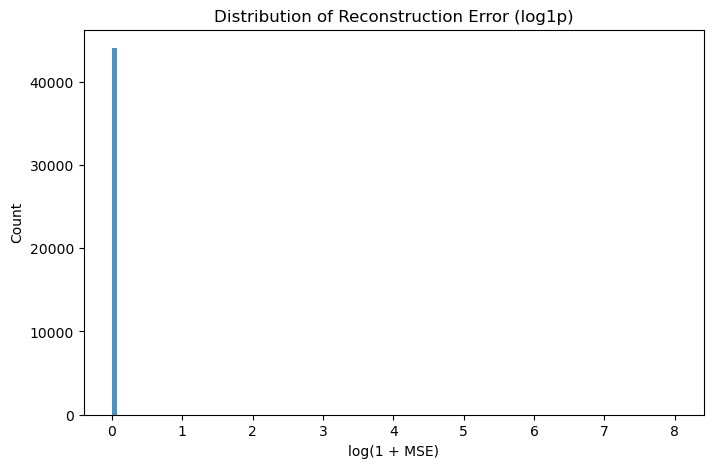
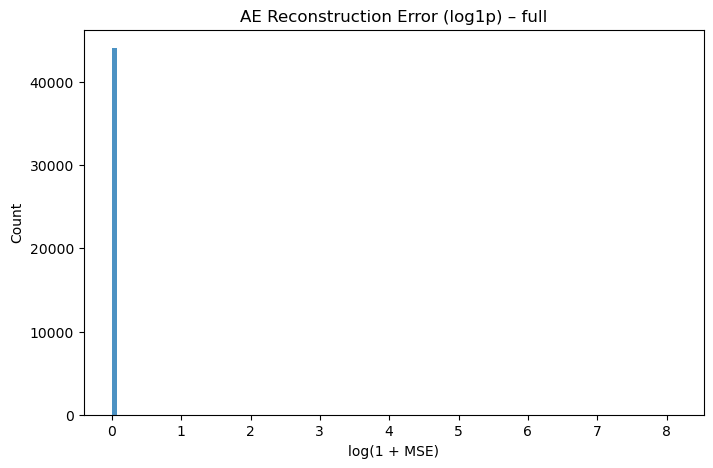
added steps to unsupervised code

diff --git a/blockchain_Unsupervised.py b/blockchain_Unsupervised.py
@@ -1,8 +1,3 @@
-# =====================================================
-# Unsupervised Fraud / Outlier Detection via Autoencoder
-# + Outlier thresholding, CSV export, and extra diagnostics
-# =====================================================
-
 import os
 import numpy as np
 import pandas as pd
@@ -11,22 +6,20 @@ from sklearn.model_selection import train_test_split
 import matplotlib.pyplot as plt
 import tensorflow as tf
 from tensorflow import keras
+from sklearn.preprocessing import StandardScaler
+from sklearn.model_selection import train_test_split
+from sklearn.ensemble import IsolationForest
+from sklearn.cluster import KMeans
 from tensorflow.keras import layers
 
 os.environ["CUDA_VISIBLE_DEVICES"] = "-1"
 os.environ["TF_CPP_MIN_LOG_LEVEL"] = "3"
 
-# -----------------------
-# 1. Load dataset
-# -----------------------
-print("[1/8] Loading cleaned transfers parquet...")
+print("[1/10] Loading cleaned transfers parquet...")
 df = pd.read_parquet("transfers_verified_small.parquet")
 print("Shape:", df.shape)
 
-# -----------------------
-# 2. Feature engineering (address-level)
-# -----------------------
-print("[2/8] Building address-level features...")
+print("[2/10] Building address-level features...")
 
 def make_address_features(df):
     addr_in = df.groupby("to")["value"].agg(["count", "sum", "mean"]).rename(
@@ -44,29 +37,22 @@ def make_address_features(df):
 addr_features = make_address_features(df)
 print("Address feature shape:", addr_features.shape)
 
-# -----------------------
-# 3. Train / val / test split
-# -----------------------
-print("[3/8] Splitting train/val/test...")
+
+print("[3/10] Splitting train/val/test...")
 X_train, X_temp = train_test_split(addr_features, test_size=0.3, random_state=42)
 X_val, X_test = train_test_split(X_temp, test_size=0.5, random_state=42)
 
-# -----------------------
-# 4. Scaling
-# -----------------------
-print("[4/8] Scaling features...")
+print("[4/10] Scaling features...")
 scaler = StandardScaler()
 X_train_scaled = scaler.fit_transform(X_train)
 X_val_scaled   = scaler.transform(X_val)
 X_test_scaled  = scaler.transform(X_test)
 
-# -----------------------
-# 5. Build Autoencoder
-# -----------------------
-print("[5/8] Building Autoencoder model...")
+
+print("[5/10] Building Autoencoder model...")
 
 input_dim = X_train_scaled.shape[1]
-encoding_dim = input_dim // 2  # simple compression factor
+encoding_dim = input_dim // 2  
 
 def build_autoencoder(input_dim, encoding_dim):
     input_layer = keras.Input(shape=(input_dim,))
@@ -81,10 +67,7 @@ def build_autoencoder(input_dim, encoding_dim):
 autoencoder = build_autoencoder(input_dim, encoding_dim)
 autoencoder.summary()
 
-# -----------------------
-# 6. Train model
-# -----------------------
-print("[6/8] Training Autoencoder...")
+print("[6/10] Training Autoencoder...")
 
 es = keras.callbacks.EarlyStopping(
     monitor="val_loss", patience=5, restore_best_weights=True
@@ -101,65 +84,145 @@ history = autoencoder.fit(
     verbose=1,
 )
 
-# -----------------------
-# 7. Reconstruction error + diagnostics
-# -----------------------
-print("[7/8] Computing reconstruction error and diagnostics...")
+print("[7/10] Computing reconstruction error and diagnostics...")
 
 X_test_pred = autoencoder.predict(X_test_scaled)
 mse = np.mean(np.square(X_test_scaled - X_test_pred), axis=1)
 
-# Basic distribution diagnostics
 percentiles = np.percentile(mse, [50, 90, 95, 99, 99.5, 99.9, 99.99])
 print("Reconstruction error percentiles (50,90,95,99,99.5,99.9,99.99):")
 print(percentiles)
 
-# Address-level score table
-addr_scores = pd.DataFrame(
+addr_scores_ae = pd.DataFrame(
     {
         "address": X_test.index,
-        "reconstruction_error": mse,
+        "ae_recon_error": mse,
     }
-).sort_values("reconstruction_error", ascending=False)
+).sort_values("ae_recon_error", ascending=False)
 
-print("\nTop 10 by reconstruction error:")
-print(addr_scores.head(10))
+print("\nTop 10 by AE reconstruction error:")
+print(addr_scores_ae.head(10))
 
-# Full histogram
 plt.figure(figsize=(8, 5))
 plt.hist(np.log1p(mse), bins=100, alpha=0.8)
-plt.title("Distribution of Reconstruction Error (log1p)")
+plt.title("AE Reconstruction Error (log1p) – full")
 plt.xlabel("log(1 + MSE)")
 plt.ylabel("Count")
 plt.savefig("ae_recon_error_hist_full.png", bbox_inches="tight")
 plt.close()
 
-# Zoomed histogram (optional, for slide clarity)
 plt.figure(figsize=(8, 5))
 plt.hist(np.log1p(mse), bins=100, range=(0, 1), alpha=0.8)
-plt.title("Distribution of Reconstruction Error (log1p) – zoomed")
+plt.title("AE Reconstruction Error (log1p) – zoomed")
 plt.xlabel("log(1 + MSE)")
 plt.ylabel("Count")
 plt.savefig("ae_recon_error_hist_zoom.png", bbox_inches="tight")
 plt.close()
 
-# -----------------------
-# 8. Thresholding + CSV export
-# -----------------------
-print("[8/8] Thresholding and saving scores...")
+print("[8/10] Thresholding AE scores and saving...")
 
-# Example: mark top 0.5% as outliers
 PERC = 99.5
-threshold = np.percentile(mse, PERC)
-print(f"Using threshold at {PERC}th percentile: {threshold:.4f}")
+ae_threshold = np.percentile(mse, PERC)
+print(f"Using AE threshold at {PERC}th percentile: {ae_threshold:.4f}")
 
-addr_scores["is_outlier"] = addr_scores["reconstruction_error"] >= threshold
-print("\nOutlier flag counts:")
-print(addr_scores["is_outlier"].value_counts())
+addr_scores_ae["ae_is_outlier"] = addr_scores_ae["ae_recon_error"] >= ae_threshold
+print("\nAE outlier flag counts:")
+print(addr_scores_ae["ae_is_outlier"].value_counts())
 
-# Save for downstream analysis (e.g., joining back to transfers)
-addr_scores.to_csv("address_ae_scores.csv", index=False)
-print("Saved address scores to address_ae_scores.csv")
+addr_scores_ae.to_csv("address_ae_scores.csv", index=False)
+print("Saved AE scores to address_ae_scores.csv")
 
-print("\nTop 10 potential outliers (highest reconstruction error):")
-print(addr_scores.head(10))
+print("\nTop 10 AE potential outliers (highest reconstruction error):")
+print(addr_scores_ae.head(10))
+
+print("\n[9/10] Fitting Isolation Forest...")
+
+iso_forest = IsolationForest(
+    n_estimators=200,
+    contamination=0.005,   
+    random_state=42,
+    n_jobs=-1,
+)
+iso_forest.fit(X_train_scaled)
+
+
+if_scores = -iso_forest.decision_function(X_test_scaled)  
+if_labels = iso_forest.predict(X_test_scaled)  
+
+addr_scores_if = pd.DataFrame(
+    {
+        "address": X_test.index,
+        "if_anomaly_score": if_scores,
+        "if_is_outlier": (if_labels == -1),
+    }
+).set_index("address")
+
+print("Isolation Forest outlier counts:")
+print(addr_scores_if["if_is_outlier"].value_counts())
+
+print("\nTop 10 by Isolation Forest anomaly score:")
+print(
+    addr_scores_if.sort_values("if_anomaly_score", ascending=False)
+    .head(10)
+)
+
+print("\n[10/10] Fitting KMeans and computing distance-based anomaly scores...")
+
+N_CLUSTERS = 8
+kmeans = KMeans(n_clusters=N_CLUSTERS, random_state=42, n_init=10)
+kmeans.fit(X_train_scaled)
+
+# assign clusters
+test_clusters = kmeans.predict(X_test_scaled)
+centroids = kmeans.cluster_centers_
+
+dists = np.linalg.norm(X_test_scaled - centroids[test_clusters], axis=1)
+
+km_threshold = np.percentile(dists, PERC)  
+km_is_outlier = dists >= km_threshold
+
+addr_scores_km = pd.DataFrame(
+    {
+        "address": X_test.index,
+        "km_cluster": test_clusters,
+        "km_dist_to_centroid": dists,
+        "km_is_outlier": km_is_outlier,
+    }
+).set_index("address")
+
+print("KMeans distance-based outlier counts:")
+print(addr_scores_km["km_is_outlier"].value_counts())
+
+print("\nTop 10 by KMeans distance to centroid:")
+print(
+    addr_scores_km.sort_values("km_dist_to_centroid", ascending=False)
+    .head(10)
+)
+
+combined = (
+    addr_scores_ae.set_index("address")
+    .join(addr_scores_if, how="left")
+    .join(addr_scores_km, how="left")
+)
+
+combined.reset_index().to_csv("address_unsupervised_scores_all.csv", index=False)
+print("\nSaved combined unsupervised scores to address_unsupervised_scores_all.csv")
+
+print("\nMethod agreement on test addresses:")
+print("AE outliers:", combined["ae_is_outlier"].sum())
+print("IF outliers:", combined["if_is_outlier"].sum())
+print("KM outliers:", combined["km_is_outlier"].sum())
+
+both_ae_if = (combined["ae_is_outlier"] & combined["if_is_outlier"]).sum()
+both_ae_km = (combined["ae_is_outlier"] & combined["km_is_outlier"]).sum()
+both_if_km = (combined["if_is_outlier"] & combined["km_is_outlier"]).sum()
+all_three = (
+    combined["ae_is_outlier"]
+    & combined["if_is_outlier"]
+    & combined["km_is_outlier"]
+).sum()
+
+print(f"Overlap AE ∩ IF: {both_ae_if}")
+print(f"Overlap AE ∩ KM: {both_ae_km}")
+print(f"Overlap IF ∩ KM: {both_if_km}")
+print(f"Overlap AE ∩ IF ∩ KM: {all_three}")
